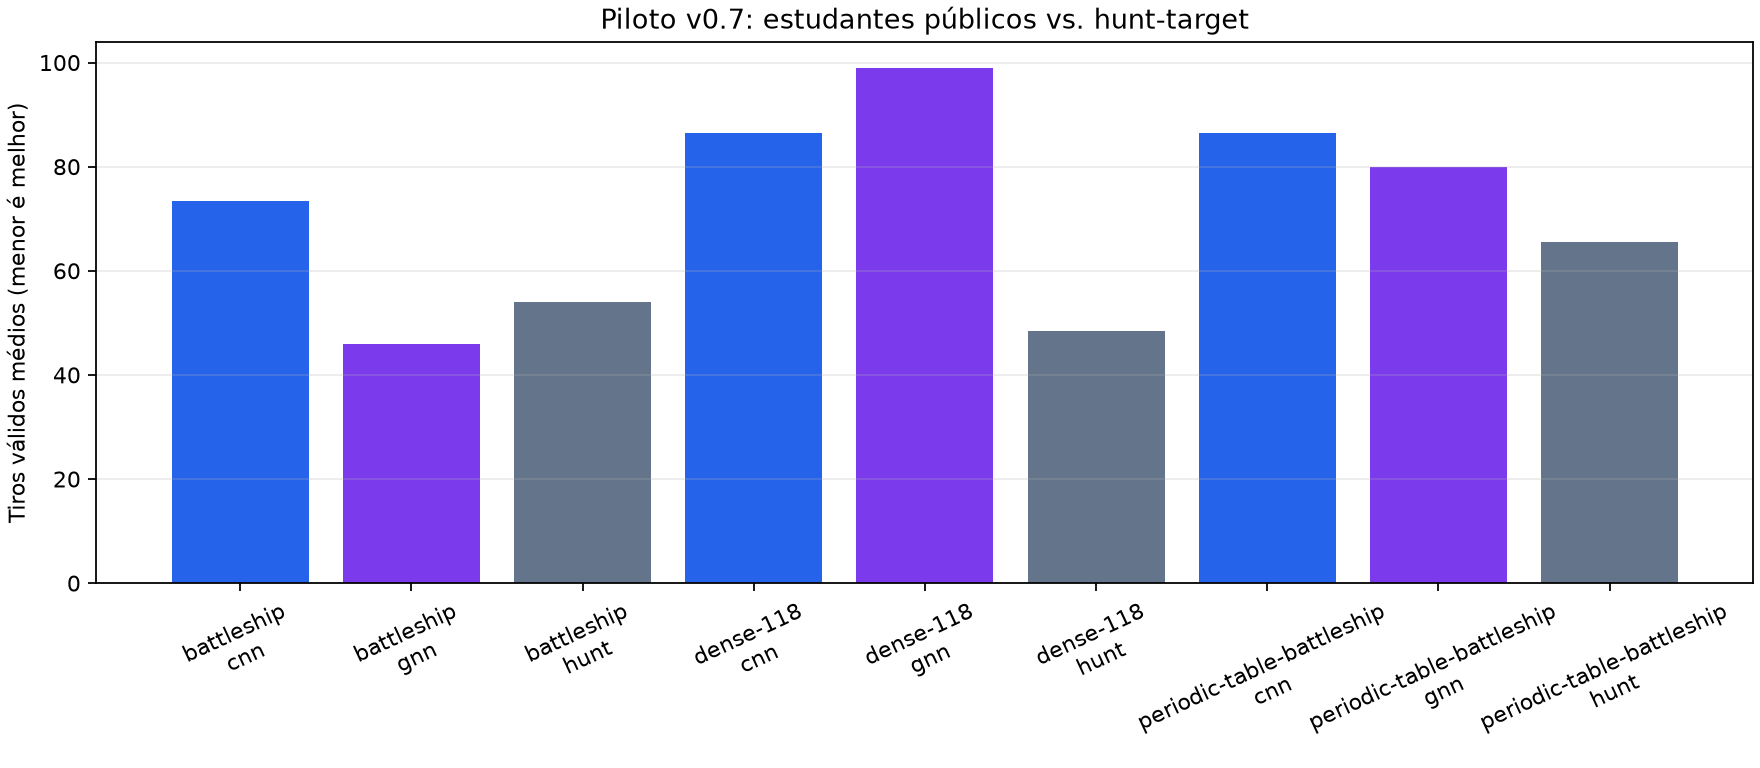
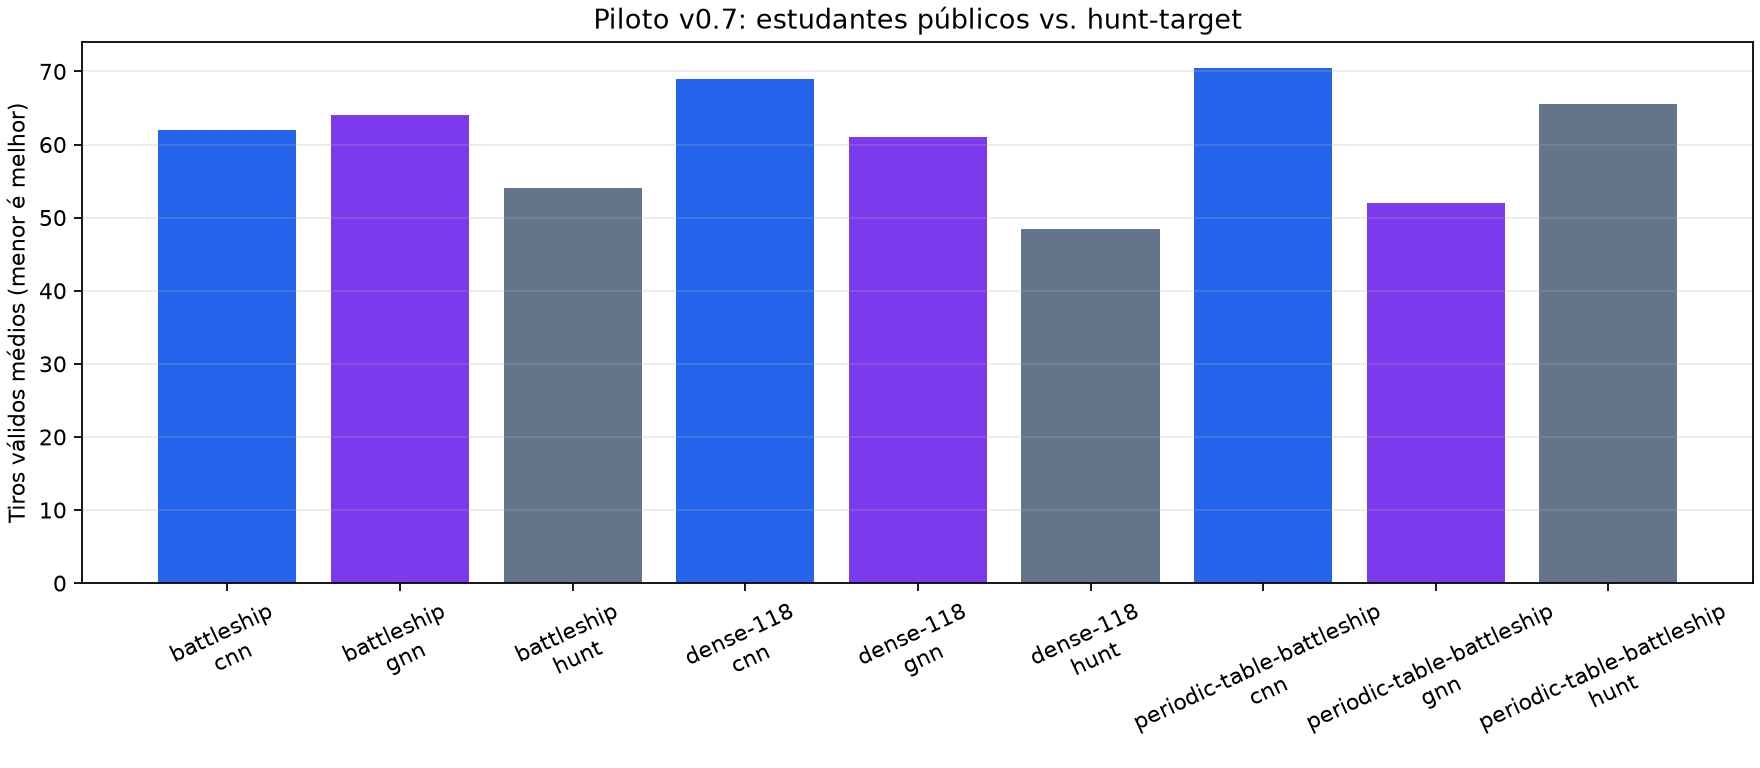
chore(artifacts): stage v0.7 validation reruns

diff --git a/artifacts/v0.7-bayesian-students/student-pilot-summary.md b/artifacts/v0.7-bayesian-students/student-pilot-summary.md
@@ -8,11 +8,11 @@ CNN e GNN recebem exclusivamente observações públicas e máscara legal. As se
 
 | Topologia | Estudante | Acordo com professor | Tiros | Hunt-target |
 | --- | --- | ---: | ---: | ---: |
-| `battleship` | `cnn` | 0.114 | 73.50 | 54.00 |
-| `battleship` | `gnn` | 0.067 | 46.00 | 54.00 |
-| `dense-118` | `cnn` | 0.017 | 86.50 | 48.50 |
-| `dense-118` | `gnn` | 0.025 | 99.00 | 48.50 |
-| `periodic-table-battleship` | `cnn` | 0.023 | 86.50 | 65.50 |
-| `periodic-table-battleship` | `gnn` | 0.030 | 80.00 | 65.50 |
+| `battleship` | `cnn` | 0.114 | 62.00 | 54.00 |
+| `battleship` | `gnn` | 0.125 | 64.00 | 54.00 |
+| `dense-118` | `cnn` | 0.112 | 69.00 | 48.50 |
+| `dense-118` | `gnn` | 0.159 | 61.00 | 48.50 |
+| `periodic-table-battleship` | `cnn` | 0.080 | 70.50 | 65.50 |
+| `periodic-table-battleship` | `gnn` | 0.080 | 52.00 | 65.50 |
 
 ![Comparação de tiros](student-valid-shots.png)